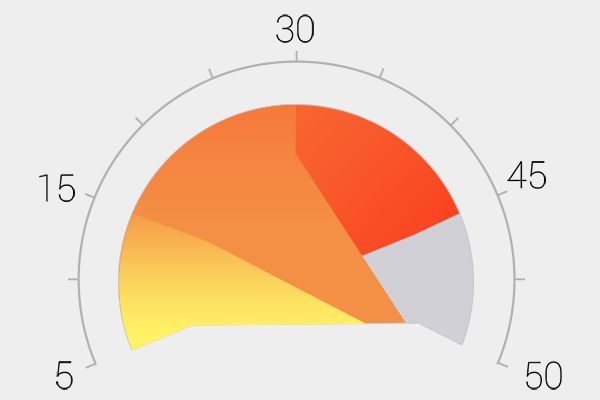
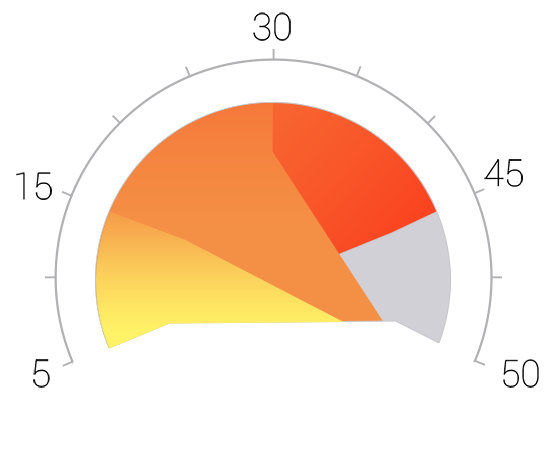
change image

diff --git a/OrangePatient/ViewController.m b/OrangePatient/ViewController.m
@@ -10,6 +10,7 @@
 #import "LoginViewController.h"
 #import "HomeViewController.h"
 #import "MyDoctorListViewController.h"
+#import "SendProblemToDoctorViewController.h"
 @interface ViewController ()
 
 @end
@@ -37,6 +38,12 @@
     [myDoctorList setTitle:@"我的医生列表" forState:UIControlStateNormal];
     [myDoctorList addTarget:self action:@selector(myDoctorListPage) forControlEvents:UIControlEventTouchUpInside];
     [self.view addSubview:myDoctorList];
+    
+    UIButton *sendProblem = [UIButton buttonWithType:UIButtonTypeRoundedRect];
+    [sendProblem setFrame:CGRectMake(110.f, 240.f, 100.f, 40.f)];
+    [sendProblem setTitle:@"问题描述" forState:UIControlStateNormal];
+    [sendProblem addTarget:self action:@selector(sendProblemPage) forControlEvents:UIControlEventTouchUpInside];
+    [self.view addSubview:sendProblem];
     // Do any additional setup after loading the view, typically from a nib.
 }
 
@@ -58,6 +65,12 @@
     MyDoctorListViewController *myDoctorList = [[MyDoctorListViewController alloc] init];
     myDoctorList.hidesBottomBarWhenPushed = YES;
     [self.navigationController pushViewController:myDoctorList animated:YES];
+}
+
+- (void)sendProblemPage{
+    SendProblemToDoctorViewController *sendProblem = [[SendProblemToDoctorViewController alloc] init];
+    sendProblem.hidesBottomBarWhenPushed = YES;
+    [self.navigationController pushViewController:sendProblem animated:YES];
 }
 
 - (void)didReceiveMemoryWarning {

diff --git a/OrangePatient/General/UIUtil/CircularProgressView.m b/OrangePatient/General/UIUtil/CircularProgressView.m
@@ -14,12 +14,12 @@
 - (instancetype)initWithFrame:(CGRect)frame{
     self = [super initWithFrame:frame];
     if (self) {
-        UIImageView *rectImageview = [[UIImageView alloc] initWithFrame:CGRectMake(0.f, 0.f, 300.f, 200.f)];
+        UIImageView *rectImageview = [[UIImageView alloc] initWithFrame:CGRectMake(0.f, 0.f, 275.f, 225.f)];
         [rectImageview setImage:[UIImage imageNamed:@"Report_Chart_BG"]];
         [self addSubview:rectImageview];
 
         //156,150
-        self.needleImageView = [[UIImageView alloc] initWithFrame:CGRectMake(66, 60, 160, 160)];
+        self.needleImageView = [[UIImageView alloc] initWithFrame:CGRectMake(56, 64, 160, 151)];
         [self.needleImageView setImage:[UIImage imageNamed:@"Report_needle"]];
         [self addSubview:self.needleImageView];
         
@@ -61,7 +61,7 @@
     //5 - 4度
     //15 -45度
     //30 -120度
-    CGFloat progressOvalEndAngle = DEGREES_TO_RADIANS(120);
+    CGFloat progressOvalEndAngle = DEGREES_TO_RADIANS(60);
     CGAffineTransform finalTransform = CGAffineTransformMakeRotation(progressOvalEndAngle);
     [self.needleImageView setTransform:finalTransform];
 //    [self.theProgressView setProgress:progressValue];

diff --git a/OrangePatient/General/Classes/Login/RegisterViewController.m b/OrangePatient/General/Classes/Login/RegisterViewController.m
@@ -63,8 +63,6 @@
     
     _registerBtn = [UIButton buttonWithType:UIButtonTypeCustom];
     [_registerBtn setFrame:CGRectMake((SCREEN_WIDTH-RegisterBtn_Width)/2, CGRectGetMaxY(registerTip.frame)+14.f, RegisterBtn_Width, 30.f)];
-    _registerBtn.layer.masksToBounds = YES;
-    _registerBtn.layer.cornerRadius = 5.f;
     [_registerBtn setBackgroundImage:[UIImage imageNamed:@"Register_Btn_BG"] forState:UIControlStateNormal];
     //_registerBtn.backgroundColor = [UIColor colorWithRed:227/255.f green:75/255.f blue:45/255.f alpha:1.f];
     [_registerBtn setTitle:REGISTER_PAGE_REGISTER_BTN_TITLE forState:UIControlStateNormal];

diff --git a/OrangePatient/General/Classes/Report/ReportViewController.m b/OrangePatient/General/Classes/Report/ReportViewController.m
@@ -23,7 +23,7 @@
     [super viewDidLoad];
     self.navigationItem.rightBarButtonItem = [self createNavRightButton:kCustomNavRightTypeReportListIcon withSEL:@selector(checkMyReportList)];
     
-    _progressView = [[CircularProgressView alloc] initWithFrame:CGRectMake((SCREEN_WIDTH-300)/2, 20, 300.f, 200.f)];
+    _progressView = [[CircularProgressView alloc] initWithFrame:CGRectMake((SCREEN_WIDTH-275)/2, 20, 275.f, 225.f)];
     [self.view addSubview:_progressView];
     
     UILabel *valueTitle = [[UILabel alloc] init];

diff --git a/OrangePatient/General/Classes/Home/MyDoctor/SendProblemToDoctorViewController.m b/OrangePatient/General/Classes/Home/MyDoctor/SendProblemToDoctorViewController.m
@@ -16,6 +16,7 @@
 
 - (void)viewDidLoad {
     [super viewDidLoad];
+    self.title = @"问题描述";
     // Do any additional setup after loading the view.
 }
 
